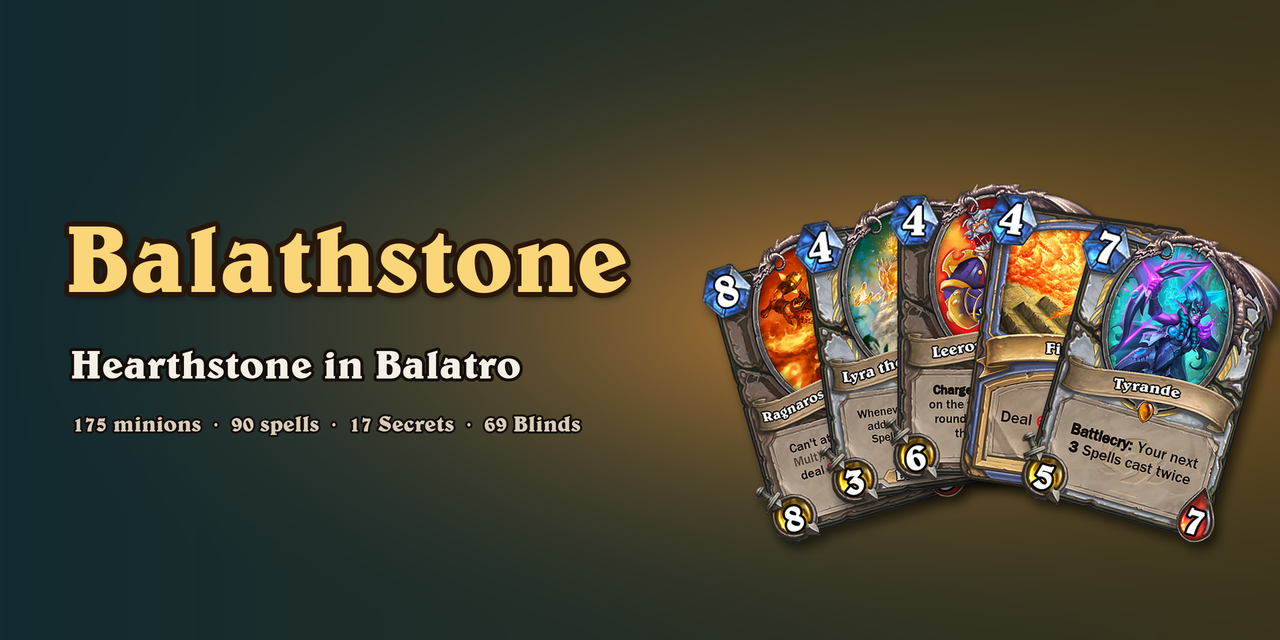
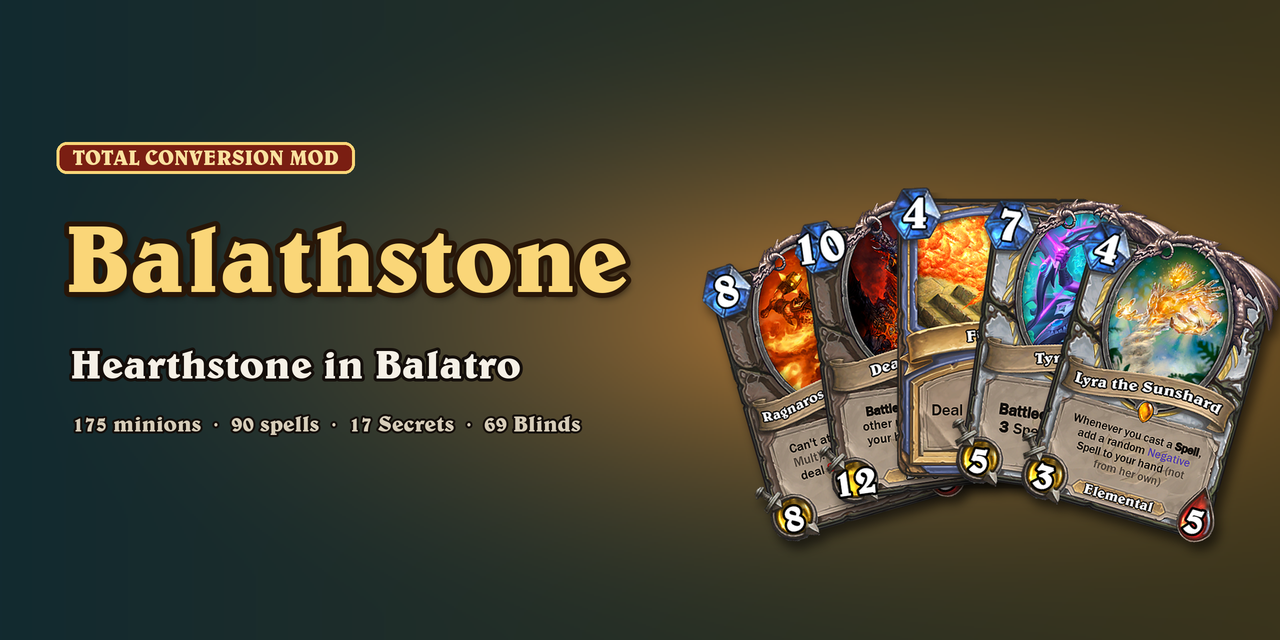
README showcase images, Lyra as the face of the mod
Banner gains a "Total conversion mod" tag and swaps Leeroy for
Deathwing and Lyra; the Thunderstore icon is now Lyra. The README gets
minion, spell/Secret and boss strips (tools/build_readme_images.py)
in place of the single preview strip.

Claude-Session: https://claude.ai/code/session_01DN7Nzb8AqhHPFgbRprTDNA

Changed region(s): [[0.625, 0.2812, 0.9688, 0.8438], [0.0312, 0.2188, 0.2812, 0.2812]]

diff --git a/tools/build_readme_images.py b/tools/build_readme_images.py
@@ -1,0 +1,72 @@
+"""Build the README showcase images in docs/ from the card and Blind atlases:
+minions.png, spells.png (Spells + Secrets) and bosses.png."""
+import os
+import sys
+
+from lupa import luajit21 as lupa
+from PIL import Image, ImageDraw, ImageFont
+
+ROOT = os.path.dirname(os.path.dirname(os.path.abspath(__file__)))
+sys.path.insert(0, os.path.join(ROOT, 'tools'))
+from build_banner import card_tile  # noqa: E402
+
+FONT = os.path.join(ROOT, 'assets', 'fonts', 'belwe-bd-bt-bold.ttf')
+W, H = 284, 380
+GAP = 14
+
+MINIONS = ['brann_bronzebeard', 'grim_patron', 'zola_the_gorgon', 'mimiron_the_mastermind', 'tess_greymane',
+           'ragnaros_the_firelord']
+SPELLS = [('c_hs_savage_roar', 'consumables'), ('c_hs_lightning_bolt', 'consumables'),
+          ('c_hs_blessed_champion', 'consumables'), ('tag_hs_freezing_trap', 'secrets'),
+          ('tag_hs_mirror_entity', 'secrets'), ('tag_hs_counterspell', 'secrets')]
+BOSSES = ['ragnaros', 'moroes', 'patchwerk', 'al_akir', 'sindragosa', 'kiljaeden', 'nzoth', 'deathwing']
+
+
+def load():
+    lua = lupa.LuaRuntime(unpack_returned_tuples=True)
+    root = ROOT.replace('\\', '/') + '/'
+    run = lua.eval('function(path, ...) return assert(loadfile(path))(...) end')
+    run(root + 'tests/mock_balatro.lua', root)
+    run(root + 'Balathstone.lua')
+    return lua
+
+
+def strip(tiles, path):
+    img = Image.new('RGBA', (len(tiles) * (W + GAP) - GAP, H), (0, 0, 0, 0))
+    for i, t in enumerate(tiles):
+        img.alpha_composite(t, (i * (W + GAP), 0))
+    img.save(path, optimize=True)
+
+
+def main():
+    import build_art
+    cards = {c['key']: c for c in build_art.load_cards()}
+    lua = load()
+    stats = lua.eval('function(k) local d = Balathstone.defs[k]; return d.atk, d.hp end')
+
+    strip([card_tile(cards, 'j_hs_' + m, 'minions', stats('j_hs_' + m)) for m in MINIONS],
+          os.path.join(ROOT, 'docs', 'minions.png'))
+    strip([card_tile(cards, k, a, None) for k, a in SPELLS], os.path.join(ROOT, 'docs', 'spells.png'))
+
+    # Bosses: first frame of each animated Blind portrait, with its name
+    pos = lua.eval("function(k) return G.P_BLINDS['bl_hs_' .. k].pos.y end")
+    names = lua.eval("function(k) return G.P_BLINDS['bl_hs_' .. k].name end")
+    sheet = Image.open(os.path.join(ROOT, 'assets', '2x', 'blinds.png'))
+    size, cell, label_h = 68, 190, 56
+    font = ImageFont.truetype(FONT, 22)
+    img = Image.new('RGBA', (len(BOSSES) * cell, cell + label_h), (0, 0, 0, 0))
+    d = ImageDraw.Draw(img)
+    for i, b in enumerate(BOSSES):
+        y = pos(b)
+        token = sheet.crop((0, y * size, size, y * size + size)).resize((cell - 20, cell - 20), Image.LANCZOS)
+        img.alpha_composite(token, (i * cell + 10, 10))
+        name = names(b).replace('Ragnaros the Firelord', 'Ragnaros').replace(', Rage Unbound', '')
+        name = name.replace(', the Corruptor', '').replace(' the Windlord', '')
+        d.text((i * cell + cell / 2, cell + 18), name, font=font, fill=(240, 228, 200), anchor='mm',
+               stroke_width=3, stroke_fill=(20, 14, 10))
+    img.save(os.path.join(ROOT, 'docs', 'bosses.png'), optimize=True)
+    print('wrote docs/minions.png, docs/spells.png, docs/bosses.png')
+
+
+if __name__ == '__main__':
+    main()

diff --git a/tools/build_banner.py b/tools/build_banner.py
@@ -16,10 +16,10 @@ BADGE = dict(ax=0.1586, ay=0.9144, hx=0.8666, hy=0.9176, digit_h=0.0942)  # src/
 
 CARDS = [  # key, atlas, (attack, health) or None
     ('j_hs_ragnaros_the_firelord', 'minions', (8, 8)),
-    ('j_hs_lyra_the_sunshard', 'minions', (3, 5)),
-    ('j_hs_leeroy_jenkins', 'minions', (6, 2)),
+    ('j_hs_deathwing', 'minions', (12, 12)),
     ('c_hs_fireball', 'consumables', None),
     ('j_hs_tyrande', 'minions', (5, 7)),
+    ('j_hs_lyra_the_sunshard', 'minions', (3, 5)),  # last = on top of the fan: the face of the mod
 ]
 
 
@@ -96,6 +96,16 @@ def main():
     bw, bh = 1280 * S, 640 * S
     img = background(bw // 4, bh // 4).resize((bw, bh), Image.BICUBIC)
     fan(img, tiles, cx=bw * 0.775, cy=bh * 0.52, scale=0.78 * S)
+    # "TOTAL CONVERSION MOD" tag above the title
+    d = ImageDraw.Draw(img)
+    tag_font = ImageFont.truetype(FONT, 21 * S)
+    tag = 'TOTAL CONVERSION MOD'
+    tx, ty = int(bw * 0.057), int(bh * 0.225)
+    tb = d.textbbox((tx, ty), tag, font=tag_font)
+    pad_x, pad_y = 16 * S, 8 * S
+    d.rounded_rectangle((tb[0] - pad_x, tb[1] - pad_y, tb[2] + pad_x, tb[3] + pad_y), radius=10 * S,
+                        fill=(122, 30, 18), outline=(250, 214, 120), width=3 * S)
+    d.text((tx, ty), tag, font=tag_font, fill=(250, 226, 160))
     title(img, int(bw * 0.05), int(bh * 0.31), 96 * S)
     d = ImageDraw.Draw(img)
     sub = ImageFont.truetype(FONT, 40 * S)
@@ -109,7 +119,7 @@ def main():
     # ---- icon 256x256 (Thunderstore)
     ic = background(64, 64).resize((512, 512), Image.BICUBIC)
     th = 480
-    t = tiles[2].resize((int(W * th / H), th), Image.LANCZOS)  # Leeroy, whole card
+    t = tiles[-1].resize((int(W * th / H), th), Image.LANCZOS)  # Lyra, the face of the mod
     ic.alpha_composite(t, ((512 - t.width) // 2, (512 - th) // 2))
     ic.resize((256, 256), Image.LANCZOS).convert('RGB').save(os.path.join(ROOT, 'docs', 'icon.png'), optimize=True)
     print('wrote docs/banner.png and docs/icon.png')

diff --git a/README.md b/README.md
@@ -2,17 +2,27 @@
 
 # Balathstone
 
-Hearthstone, rebuilt as a Balatro mod. Jokers, consumables, tags and Blinds are replaced with Hearthstone cards.
+A Hearthstone total conversion mod for Balatro. Jokers, consumables, tags and Blinds are replaced with Hearthstone cards.
 
-![Cards](docs/preview.png)
+## Minions
 
-- **175 minions.** Attack scores Mult, Health scores Chips. Battlecry, Deathrattle, Taunt, Divine Shield, Windfury and the rest work as keywords.
-- **90 Spells, Locations and Forbidden Spells** that buff minions, damage the Blind and edit your deck.
-- **17 Secrets** replace tags and trigger mid-round.
-- **69 Blinds** are Hearthstone minions and bosses that attack your board every hand.
-- **32 Treasures** replace vouchers.
+175 minions replace Jokers. Attack scores Mult, Health scores Chips. Battlecry, Deathrattle, Taunt, Divine Shield, Windfury and the rest work as keywords, and combos stack X Mult.
 
-Rules: [docs/DESIGN.md](docs/DESIGN.md)
+![Minions](docs/minions.png)
+
+## Spells and Secrets
+
+90 Spells, Locations and Forbidden Spells buff minions, damage the Blind and edit your deck. 17 Secrets replace tags and trigger mid-round. 32 Treasures replace vouchers.
+
+![Spells and Secrets](docs/spells.png)
+
+## Bosses
+
+69 Blinds are Hearthstone minions and bosses that attack your board every hand, with Charge, Stealth, Lifesteal, Reborn, summoned armies and more.
+
+![Bosses](docs/bosses.png)
+
+Full rules: [docs/DESIGN.md](docs/DESIGN.md)
 
 ## Install
 
